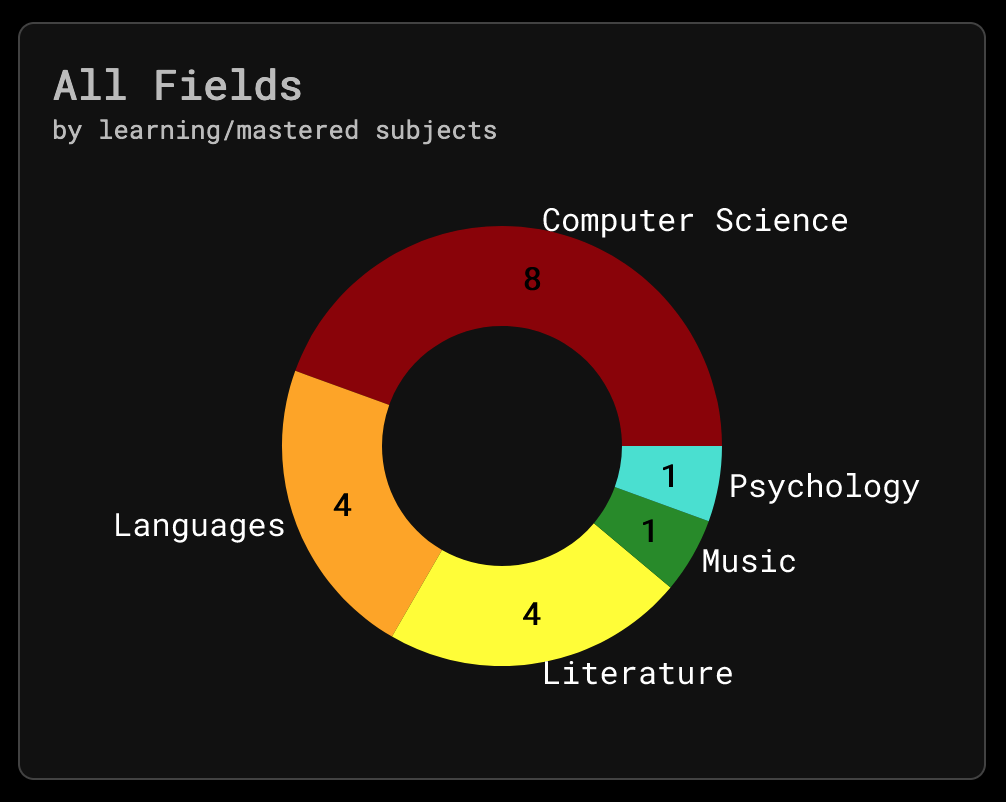
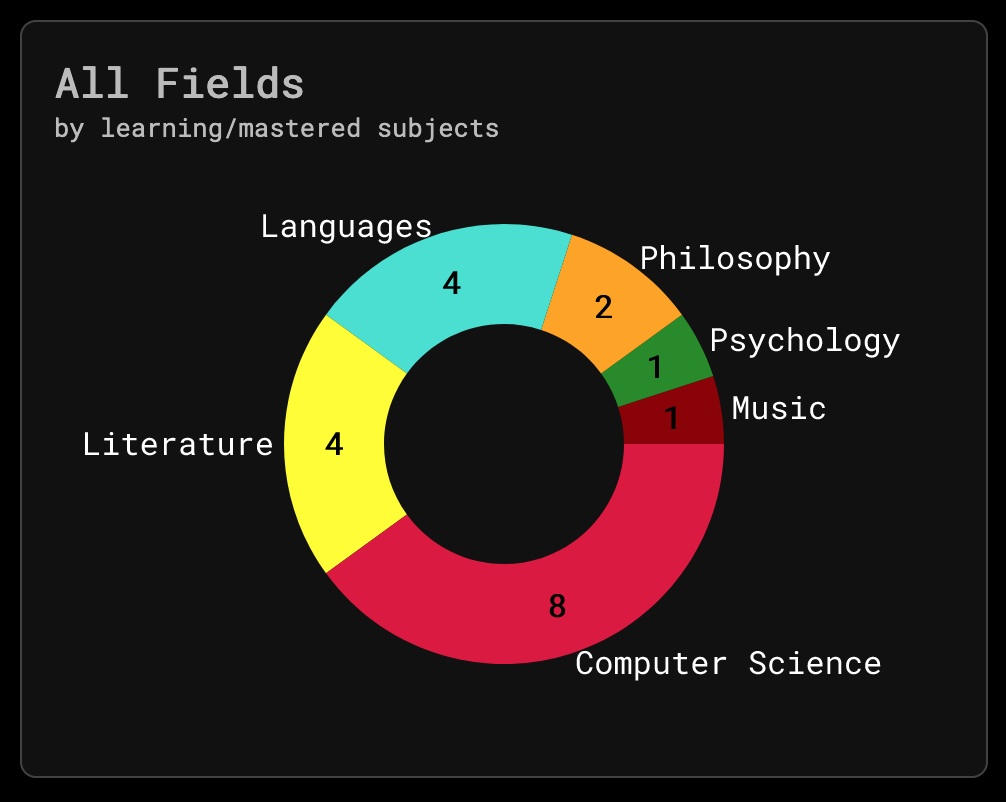
fixed pie colors

diff --git a/src/components/Dashboard/Stats.js b/src/components/Dashboard/Stats.js
@@ -3,8 +3,16 @@ import styles from "../../styles/Stats.module.scss";
 
 const Stats = (props) => {
 
-	const statsByField = [];
+	const sortByHighestValue = (a, b) => {
+		const fa = a.value;
+		const fb = b.value;
+		
+		if (fa < fb) return -1;
+		else if (fa > fb) return 1;
+		else return 0;
+	}
 
+	const statsByField = [];
 	props.fields.forEach(fieldObject => {
 		const values = props.subjects.filter(subject => (subject.field === fieldObject.field && subject.status !== "Wish")).length;
 		values > 0 &&
@@ -12,9 +20,10 @@ const Stats = (props) => {
 				name: fieldObject.field,
 				value: values
 			})
-	});
+	})
+	const sortedStatsByField = statsByField.sort(sortByHighestValue);
 
-	const COLORS = ['#8B0000', '#FFA500', '#FFFF00', '#228B22', '#40E0D0', '#00BFFF', '#DA70D6', '#8B4513', '#DC143C', '#F0E68C', '#32CD32', '#008080', '#7B68EE', '#9932CC', '#DEB887', '#800000', '#4B0082', '#00BFFF', '#808000', '#FF7F50', '#3CB371' ];
+	const COLORS = ['#8B0000', '#228B22', '#FFA500', '#40E0D0', '#FFFF00', '#DC143C', '#8B4513', '#DA70D6', '#00BFFF', '#F0E68C', '#32CD32', '#008080', '#7B68EE', '#9932CC', '#DEB887', '#800000', '#4B0082', '#00BFFF', '#808000', '#FF7F50', '#3CB371' ];
 
 	
 	return (
@@ -25,12 +34,12 @@ const Stats = (props) => {
 			<p>by learning/mastered subjects</p>
 				<PieChart width={450} height={300}>
 					<Pie
-						data={statsByField}
+						data={sortedStatsByField}
 						innerRadius={60}
 						outerRadius={110}
 						dataKey="value"
 					>
-						{statsByField.map((entry, index) => (
+						{sortedStatsByField.map((entry, index) => (
 							<Cell 
 								key={`cell-${index}`} 
 								fill={COLORS[index % COLORS.length]}
